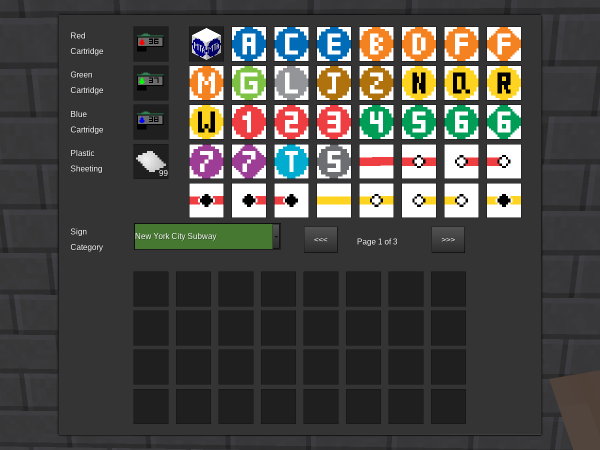
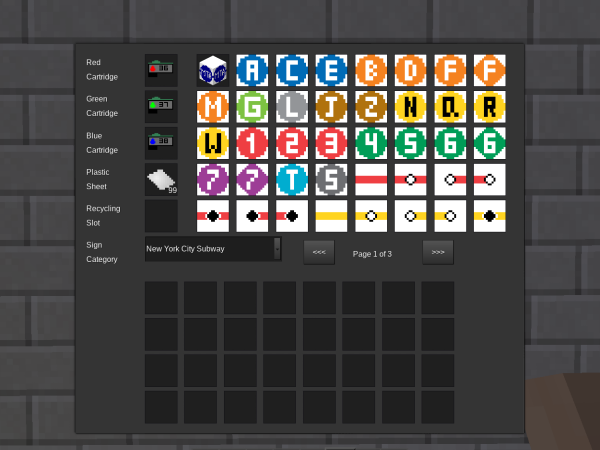
Add recycling slot;simplify TA signs

diff --git a/README.rst b/README.rst
@@ -90,6 +90,8 @@ When everything is added, you should be able to see some signs. To select a diff
 
 Sign writing consumes ink. The amount of ink used depends on the sign you're writing. Assuming a full set of carridges, you can write 4 lightboxes, 10 map signs or 20 line/platform signs.
 
+If you insert a sign into the recycling slot, you will get back some of your ink. If you're really lucky, you'll recover a plastic sheet, too.
+
 Cartridges can be refilled in the crafting grid.
 
 .. image:: screenshots/recipe3.png
